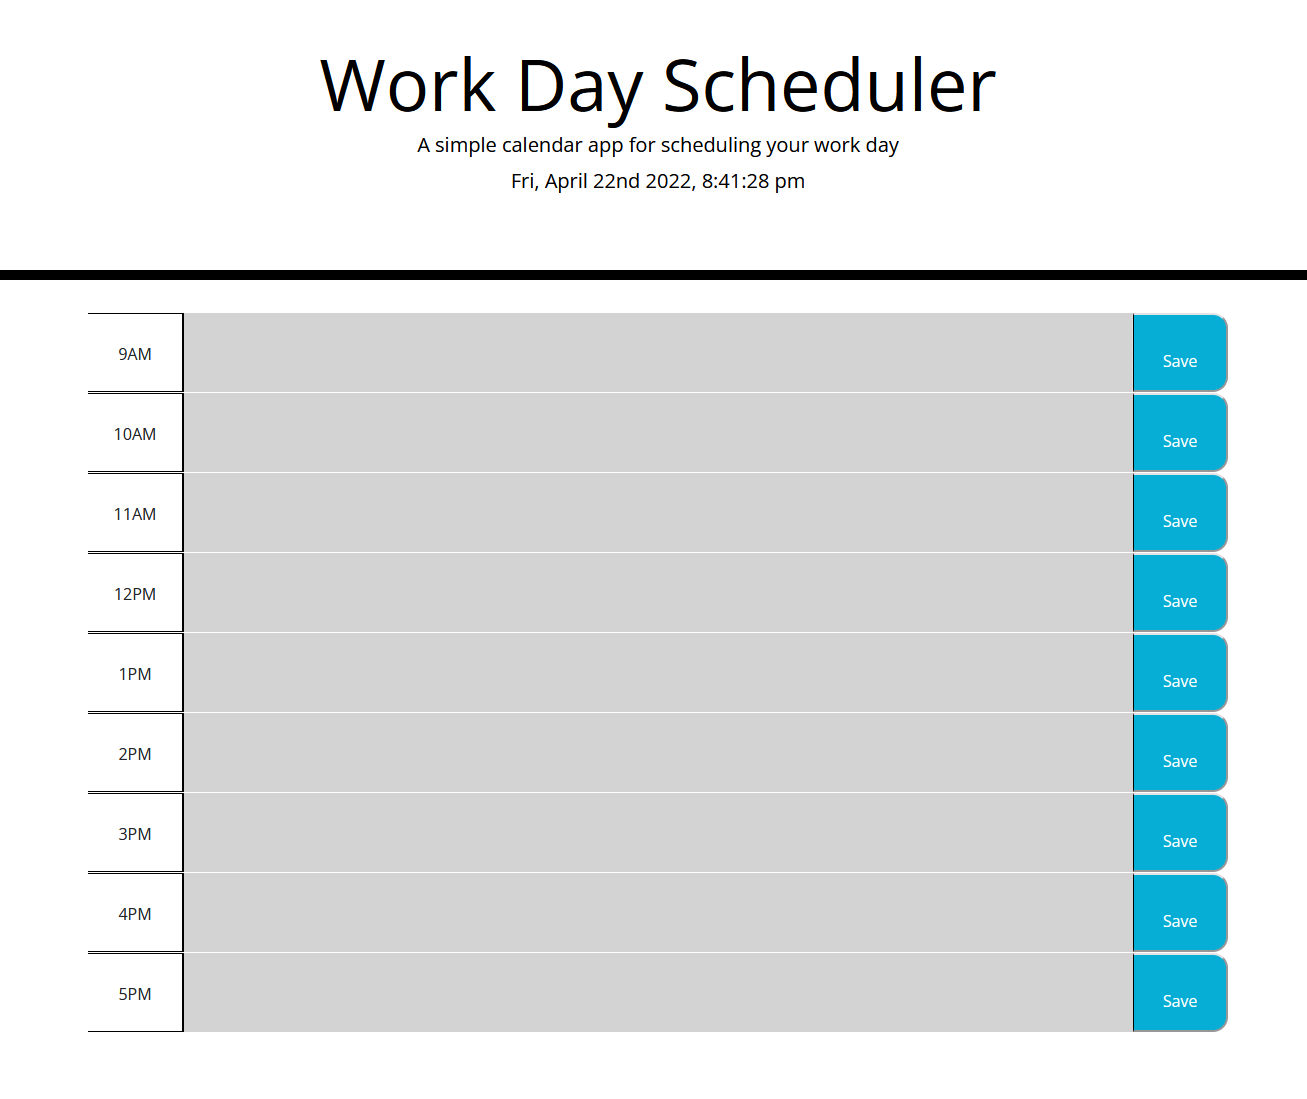
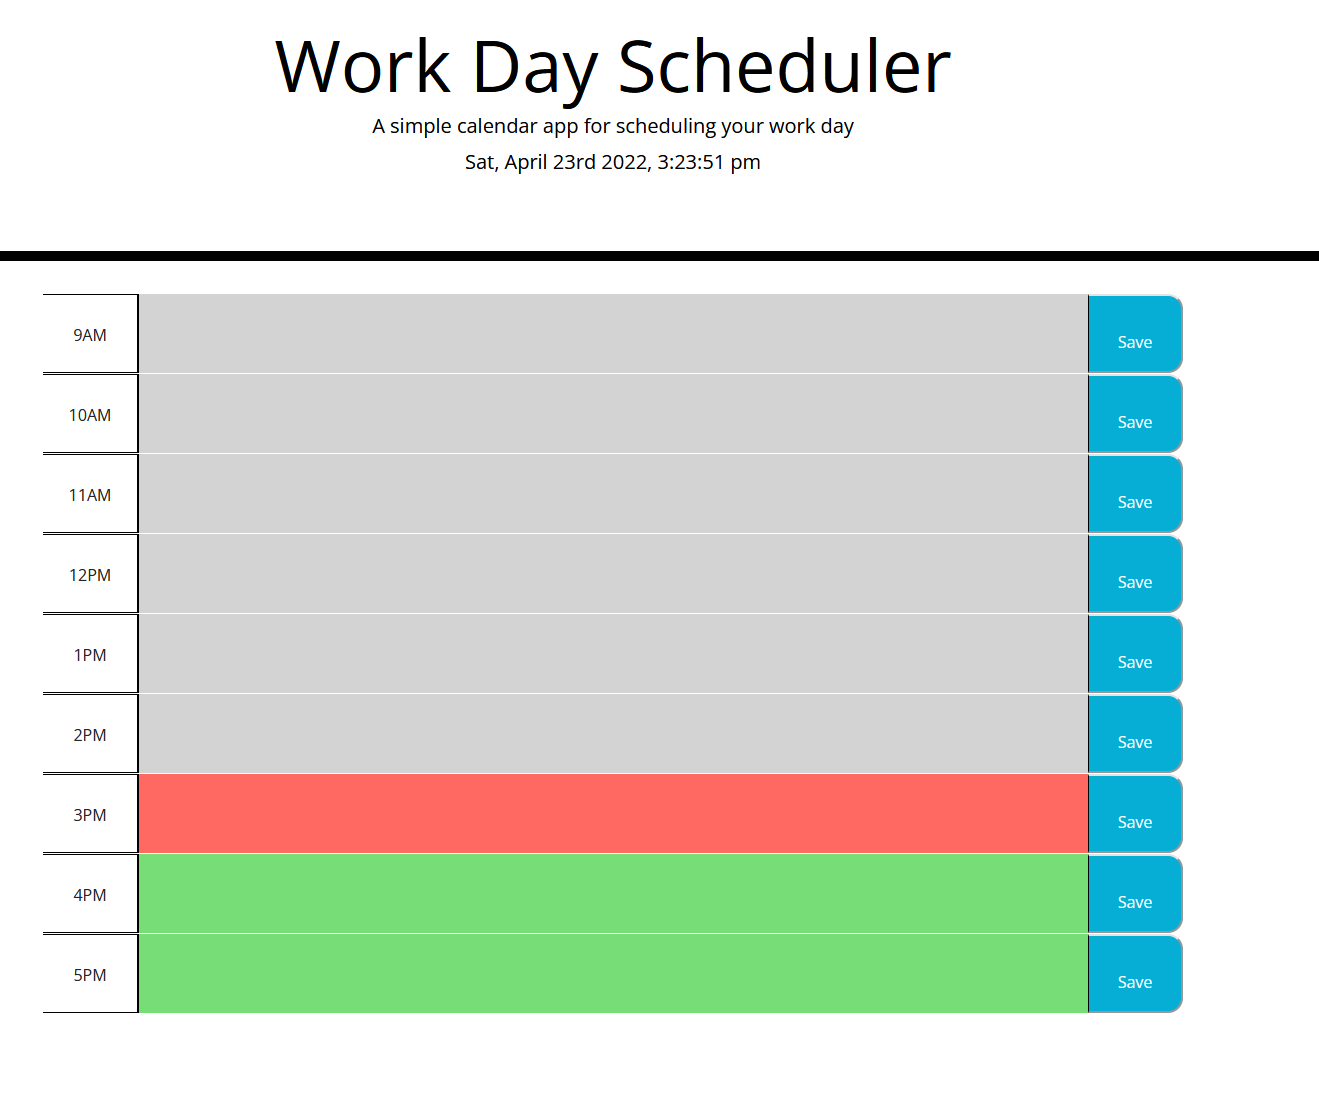
finished the readme

diff --git a/README.md b/README.md
@@ -9,7 +9,9 @@ The HTML was essentially done but we needed to add the text boxes for each time 
 
 For the Javascript, I first added the dynamic clock by using jQuery to reference the Moment API. I then used jQuery to write a function that references the assigned id for each of the rows with the current hour using Moment's API and then I used if-else statements to format the rows based on whether or not the referenced time value is before during or after the current hour to assign appropriate classes from the css to the corresponding situation.
 
-I then used javascript to add an event listener to store the information from the planner with a click event.
+I then used javascript to add an event listener to store the information from the planner with a click event to the user's local storage.
+
+Lastly, I added a function that would load the local storage upon reloading the website.
 
 # Project Links
 
